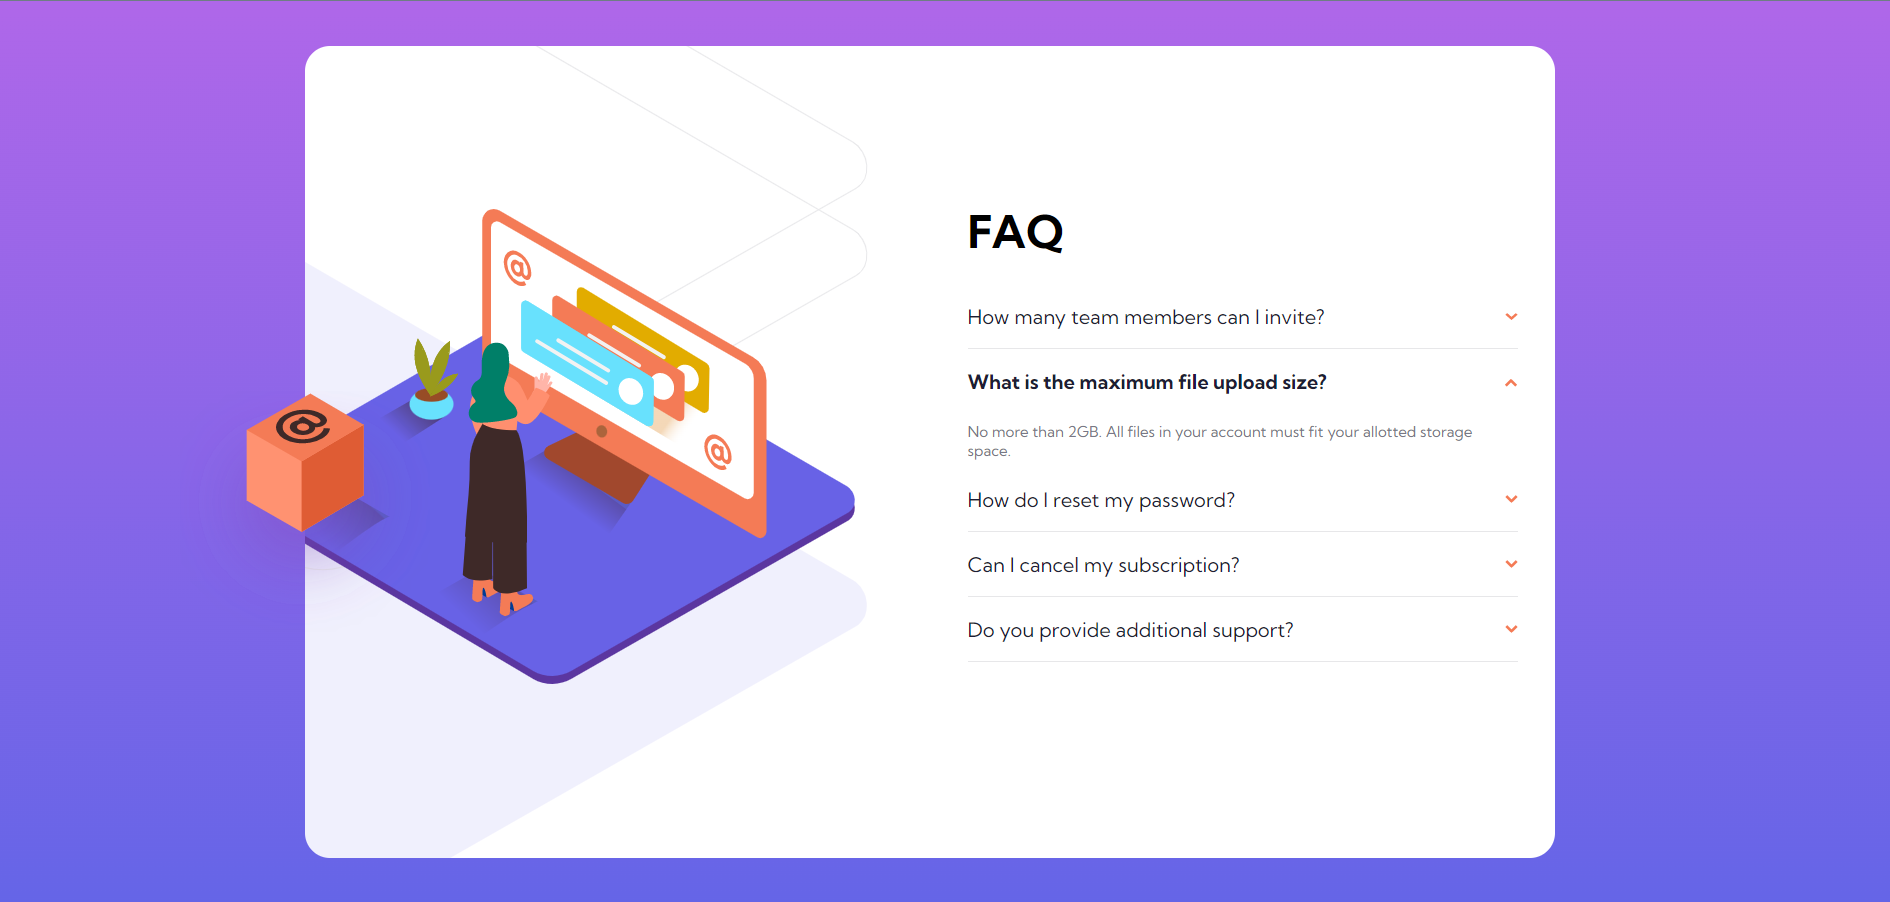
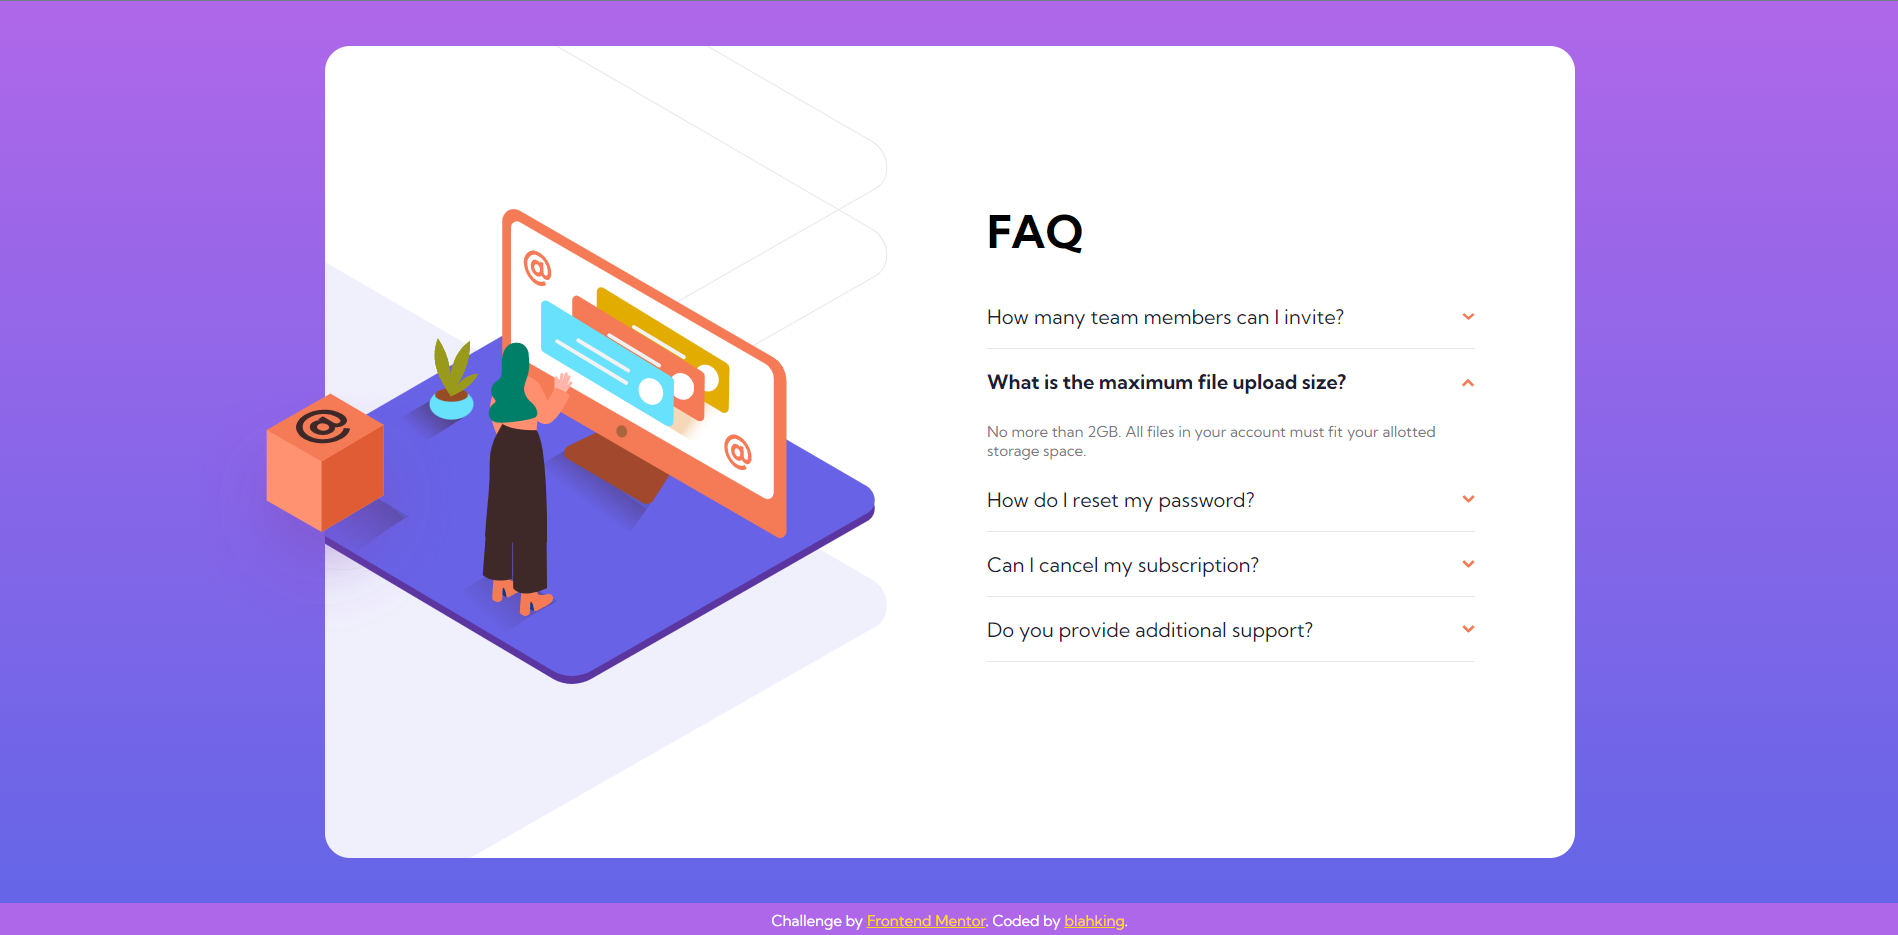
update

diff --git a/05-frontend-mentor-5/style.css b/05-frontend-mentor-5/style.css
@@ -79,7 +79,7 @@ body {
   display: grid;
   grid-template-columns: 1fr 20px;
   align-items: center;
-  font-size: 14px;
+  font-size: 13px;
   padding: 1em 0;
   cursor: pointer;
   position: relative;
@@ -129,6 +129,17 @@ body {
   display: none;
 }
 
+.attribution {
+  padding: 0.5em 0;
+  background-color: hsl(273, 75%, 66%);
+  text-align: center;
+  color: white;
+}
+
+.attribution a {
+  color: gold;
+}
+
 @media (min-width: 1200px) {
   .faq-container {
     grid-template-columns: 1fr 1fr;
@@ -159,6 +170,7 @@ body {
   /* faq content style */
   .faq-content {
     align-self: center;
+    margin-right: 50px;
   }
 
   .faq-content h2 {

diff --git a/05-frontend-mentor-5/index.html b/05-frontend-mentor-5/index.html
@@ -88,6 +88,11 @@
         </div>
       </div>
     </div>
+    <div class="attribution">
+      Challenge by
+      <a href="https://www.frontendmentor.io?ref=challenge" target="_blank">Frontend Mentor</a>.
+      Coded by <a href="https://github.com/blahking" target="_blank">blahking</a>.
+    </div>
     <script src="index.js"></script>
   </body>
 </html>
